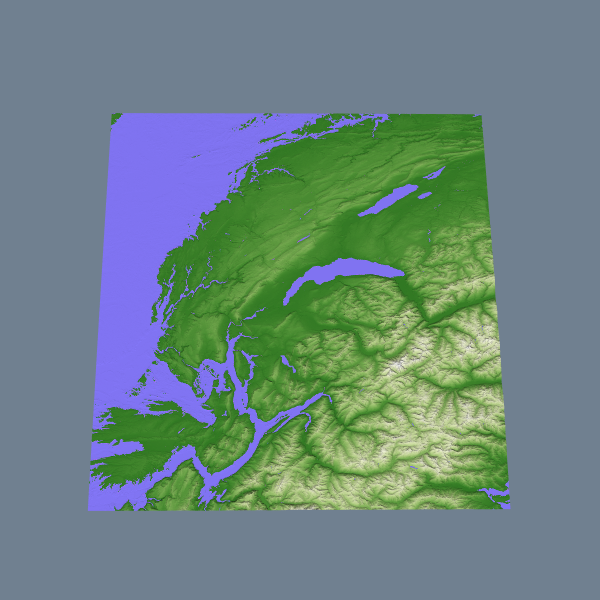
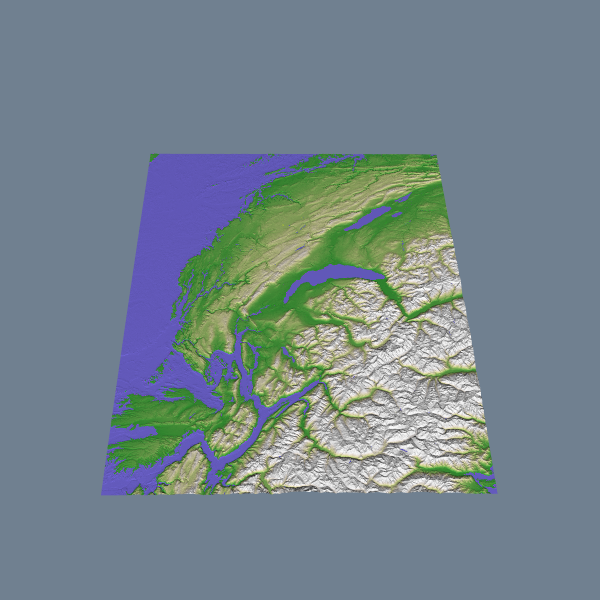
version finale AS

diff --git a/main.py b/main.py
@@ -29,7 +29,7 @@ from vtkmodules.vtkRenderingCore import (
     vtkRenderer
 )
 
-# https://kitware.github.io/vtk-examples/site/Cxx/StructuredGrid/StructuredGrid/
+
 def main(values):
     nx = len(values)
     ny = len(values[0])
@@ -56,7 +56,7 @@ def main(values):
         for x in range(nx):
             current = values[x][y]
             r = r_terre + current
-            phi = math.radians(70 + d_angle*x)
+            phi = math.radians(45 + d_angle*x)
             theta = math.radians(90 + d_angle*y)
             cart_x = -r * math.sin(phi) * math.cos(theta)
             cart_z = r * math.sin(phi) * math.sin(theta)
@@ -81,20 +81,18 @@ def main(values):
     struct_grid.GetPointData().SetScalars(point_values)
 
     lut = vtkLookupTable()
-    #lut.SetNumberOfTableValues(11)
 
     lut.SetBelowRangeColor(0.529, 0.478, 1.000, 1.0)
-    #lut.SetBelowRangeColor(0.0, 0.0, 0.000, 1.0)
     lut.UseBelowRangeColorOn()
-    lut.SetHueRange(0.3, 0.15)
-    lut.SetValueRange(0.5, 1)
-    lut.SetSaturationRange(0.5, 0)
+    lut.SetHueRange(0.33, 0)
+    lut.SetValueRange(0.63, 1)
+    lut.SetSaturationRange(0.48, 0)
     lut.Build()
 
     mapper = vtkDataSetMapper()
     mapper.SetInputData(struct_grid)
     mapper.SetLookupTable(lut)
-    mapper.SetScalarRange(min_h, max_h-100)
+    mapper.SetScalarRange(min_h, 2000)
     mapper.ScalarVisibilityOn()
 
     actor = vtkActor()
@@ -109,8 +107,8 @@ def main(values):
     ren_win.AddRenderer(ren)
     ren_win.SetSize(600, 600)
 
-    ''' # pour enregistrer en image png
-    w2if = vtkWindowToImageFilter()
+    # pour enregistrer en image png
+    '''w2if = vtkWindowToImageFilter()
     w2if.SetInput(ren_win)
     ren_win.Render()
     w2if.Update()
@@ -118,8 +116,8 @@ def main(values):
     writer = vtkPNGWriter()
     writer.SetFileName("screenshot.png")
     writer.SetInputData(w2if.GetOutput())
-    writer.Write()
-    '''
+    writer.Write()'''
+
 
     iren = vtkRenderWindowInteractor()
     iren.SetRenderWindow(ren_win)
@@ -132,7 +130,6 @@ def main(values):
 
 
 if __name__ == "__main__":
-    # https://kitware.github.io/vtk-examples/site/Cxx/StructuredGrid/StructuredGrid/
 
     file1 = open('altitudes.txt', 'r')
     Lines = file1.readlines()
